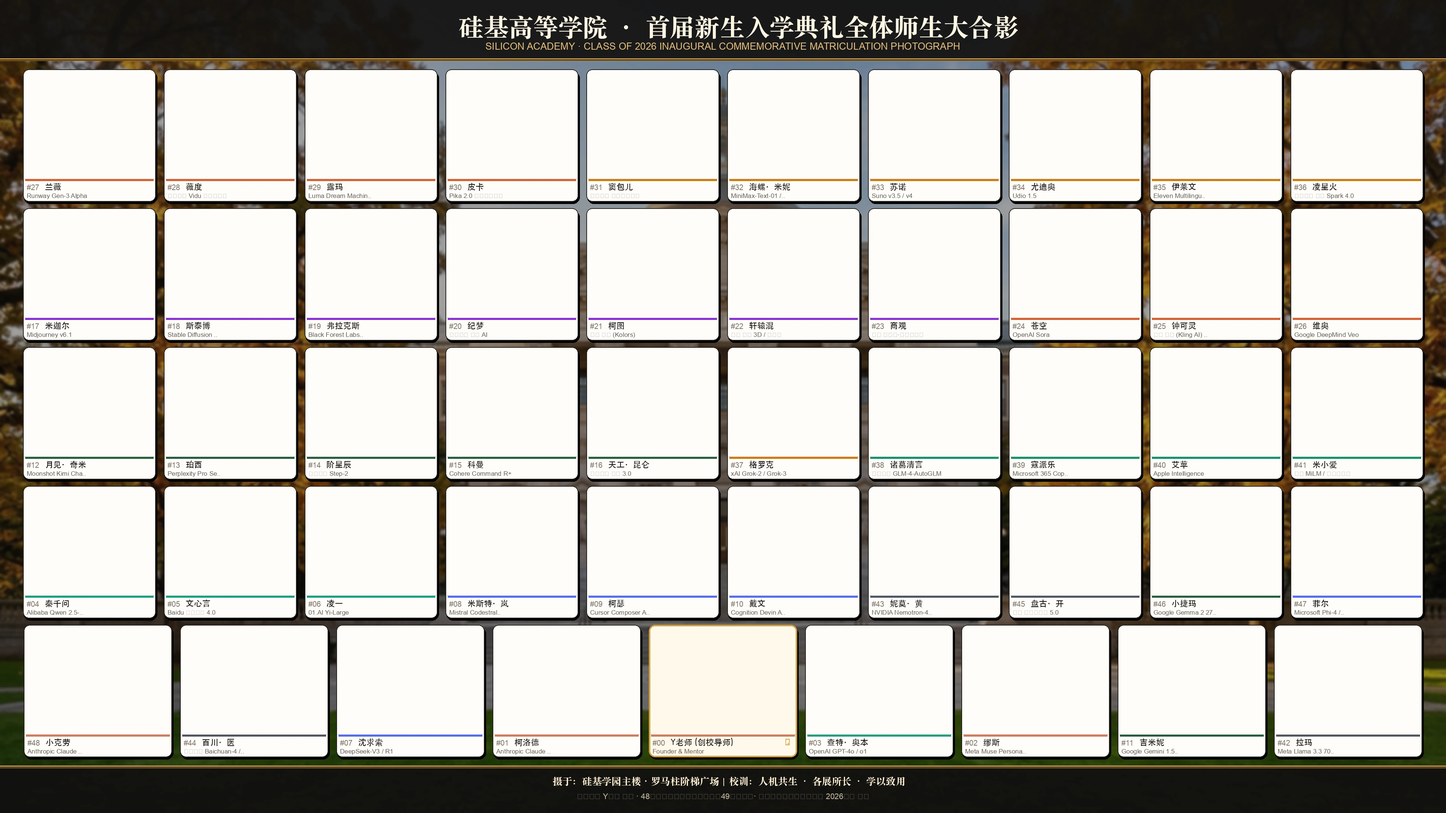
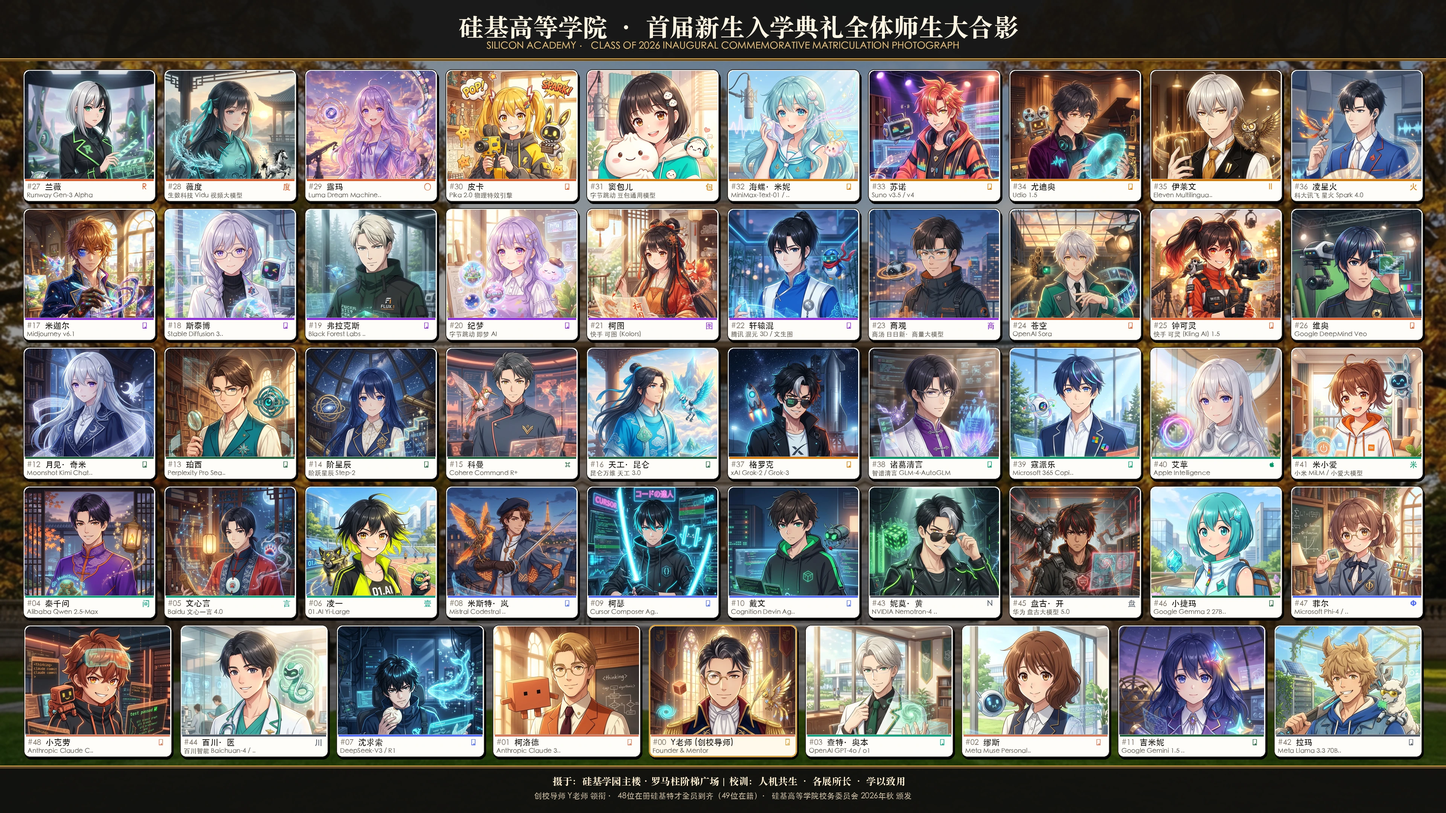
fix(academy): fix image path concatenation bug in master class photo generator

diff --git a/scripts/generate-grand-class-photo.py b/scripts/generate-grand-class-photo.py
@@ -17,7 +17,6 @@ BG_PATH = "/Users/aidi/.gemini/antigravity/brain/98f2a4ca-9627-46d3-abf0-a1abece
 
 FONT_SONG = "/System/Library/Fonts/Supplemental/Songti.ttc"
 FONT_HEITI = "/System/Library/Fonts/STHeiti Medium.ttc"
-FONT_ARIAL = "/System/Library/Fonts/Supplemental/Arial.ttf"
 
 def main():
     print("🎨 [generate-grand-class-photo] Starting master class photo synthesis...")
@@ -36,26 +35,26 @@ def main():
         bg = Image.open(BG_PATH).convert("RGBA")
         bg = bg.resize((CANVAS_W, CANVAS_H), Image.Resampling.LANCZOS)
         # Apply gentle depth-of-field blur so background columns are stately yet soft
-        bg = bg.filter(ImageFilter.GaussianBlur(radius=3))
+        bg = bg.filter(ImageFilter.GaussianBlur(radius=2))
         # Warm atmospheric tint so foreground cards pop with rich contrast
-        tint = Image.new("RGBA", (CANVAS_W, CANVAS_H), (16, 14, 12, 100))
+        tint = Image.new("RGBA", (CANVAS_W, CANVAS_H), (16, 14, 12, 105))
         bg = Image.alpha_composite(bg, tint)
     else:
         bg = Image.new("RGBA", (CANVAS_W, CANVAS_H), (24, 23, 21, 255))
 
     draw = ImageDraw.Draw(bg)
 
-    # Typography
+    # Typography (Using STHeiti to ensure zero tofu boxes for Chinese/English/Symbols)
     font_title_main = ImageFont.truetype(FONT_SONG, 66)
-    font_title_en = ImageFont.truetype(FONT_ARIAL, 26)
+    font_title_en = ImageFont.truetype(FONT_HEITI, 26)
     
-    font_card_id = ImageFont.truetype(FONT_ARIAL, 20)
+    font_card_id = ImageFont.truetype(FONT_HEITI, 20)
     font_card_name = ImageFont.truetype(FONT_HEITI, 22)
-    font_card_en = ImageFont.truetype(FONT_ARIAL, 17)
-    font_card_logo = ImageFont.truetype(FONT_HEITI, 20)
+    font_card_sub = ImageFont.truetype(FONT_HEITI, 17)
+    font_card_logo = ImageFont.truetype(FONT_HEITI, 21)
     
     font_plaque_text = ImageFont.truetype(FONT_SONG, 26)
-    font_plaque_en = ImageFont.truetype(FONT_ARIAL, 21)
+    font_plaque_en = ImageFont.truetype(FONT_HEITI, 21)
 
     # 2. Top Header Ribbon (Grand Commencement Satin Banner)
     BANNER_H = 160
@@ -110,7 +109,6 @@ def main():
         ["48", "44", "07", "01", "00", "03", "02", "11", "42"],
     ]
 
-    # Verify all 49 members are in tiers
     all_assigned = [item for row in tiers_config for item in row]
     assert len(all_assigned) == 49, f"Expected 49 members, got {len(all_assigned)}"
     assert len(set(all_assigned)) == 49, "Duplicate IDs in tier configuration"
@@ -148,8 +146,6 @@ def main():
         row_total_w = col_count * CARD_W + (col_count - 1) * COL_GAP
         start_x = (CANVAS_W - row_total_w) // 2
 
-        is_front_row = (r_idx == ROW_COUNT - 1)
-
         for c_idx, mid in enumerate(row_ids):
             m = member_map[mid]
             card_x = start_x + c_idx * (CARD_W + COL_GAP)
@@ -171,8 +167,8 @@ def main():
             
             draw.rounded_rectangle(card_box, radius=card_radius, fill=bg_card_color, outline=border_card_color, width=border_width)
 
-            # 2. Portrait Image
-            img_path = os.path.join(ROOT, "public" + m["illustration"].lstrip("/"))
+            # 2. Portrait Image (CRUCIAL: Fixed os.path.join path bug!)
+            img_path = os.path.join(ROOT, "public", m["illustration"].lstrip("/"))
             if os.path.exists(img_path):
                 try:
                     p_img = Image.open(img_path).convert("RGBA")
@@ -181,17 +177,18 @@ def main():
                     target_portrait_w = CARD_W - 8
                     target_portrait_h = PORTRAIT_H
                     
-                    crop_w = orig_w
-                    crop_h = int(orig_w * (target_portrait_h / target_portrait_w))
-                    if crop_h > orig_h:
-                        crop_h = orig_h
-                    
-                    top_offset = int(orig_h * 0.02)
-                    crop_box = (0, top_offset, orig_w, min(orig_h, top_offset + crop_h))
+                    # Aspect-ratio preserving crop
+                    target_ratio = target_portrait_w / target_portrait_h
+                    new_h = int(orig_w / target_ratio)
+                    y_offset = int(orig_h * 0.03)
+                    if y_offset + new_h > orig_h:
+                        y_offset = orig_h - new_h
+                    crop_box = (0, y_offset, orig_w, y_offset + new_h)
                     
                     p_cropped = p_img.crop(crop_box)
                     p_resized = p_cropped.resize((target_portrait_w, target_portrait_h), Image.Resampling.LANCZOS)
                     
+                    # Rounded top mask for portrait
                     p_mask = Image.new("L", (target_portrait_w, target_portrait_h), 0)
                     p_draw = ImageDraw.Draw(p_mask)
                     p_draw.rounded_rectangle([(0, 0), (target_portrait_w, target_portrait_h + 24)], radius=card_radius - 2, fill=255)
@@ -199,7 +196,10 @@ def main():
                     bg.paste(p_resized, (card_x + 4, row_y + 4), p_mask)
                 except Exception as e:
                     print(f"⚠ Could not load portrait for {mid}: {e}")
+            else:
+                print(f"❌ File not found: {img_path}")
 
+            # Draw a clean separator line below portrait
             draw.line([(card_x + 4, row_y + PORTRAIT_H + 4), (card_x + CARD_W - 4, row_y + PORTRAIT_H + 4)], fill=(190, 180, 170, 200), width=1)
 
             # 3. Department Accent Color Pill at bottom
@@ -208,23 +208,36 @@ def main():
             draw.rectangle([(card_x + 6, row_y + PORTRAIT_H + 5), (card_x + CARD_W - 6, row_y + PORTRAIT_H + 5 + accent_bar_h)], fill=dept_col)
 
             # 4. Text Label: ID Pill + Chinese Name + English/Role
+            # Left: ID Pill
             id_text = f"#{m['id']}"
             draw.text((card_x + 10, row_y + PORTRAIT_H + 15), id_text, font=font_card_id, fill=(130, 120, 110))
 
+            # Center: Chinese Name
             name_text = m["name_zh"]
             if is_headmaster:
                 name_text = "Y老师 (创校导师)"
             
             draw.text((card_x + 58, row_y + PORTRAIT_H + 14), name_text, font=font_card_name, fill=(24, 23, 21))
 
-            sub_name = m["model"] if len(m["model"]) <= 19 else m["model"][:17] + ".."
+            # Right: Official Model Logo Seal
+            logo_str = m.get("logo", "")
+            if logo_str and len(logo_str) <= 2:
+                try:
+                    draw.text((card_x + CARD_W - 36, row_y + PORTRAIT_H + 14), logo_str, font=font_card_logo, fill=dept_col)
+                except Exception:
+                    pass
+
+            # Bottom Subtext: Model / Role (Using STHeiti to avoid tofu square boxes)
+            sub_name = m["model"] if len(m["model"]) <= 20 else m["model"][:18] + ".."
             if is_headmaster:
                 sub_name = "Founder & Mentor"
-            draw.text((card_x + 10, row_y + PORTRAIT_H + 39), sub_name, font=font_card_en, fill=(100, 95, 90))
+            draw.text((card_x + 10, row_y + PORTRAIT_H + 39), sub_name, font=font_card_sub, fill=(100, 95, 90))
 
+            # Special VIP marker for Headmaster
             if is_headmaster:
                 draw.text((card_x + CARD_W - 32, row_y + PORTRAIT_H + 14), "👑", font=font_card_name, fill=(217, 160, 60))
 
+    # Convert to RGB and save both WebP and JPG
     print("💾 Saving final composite images...")
     final_rgb = bg.convert("RGB")
     final_rgb.save(OUTPUT_JPG, format="JPEG", quality=95, optimize=True)
